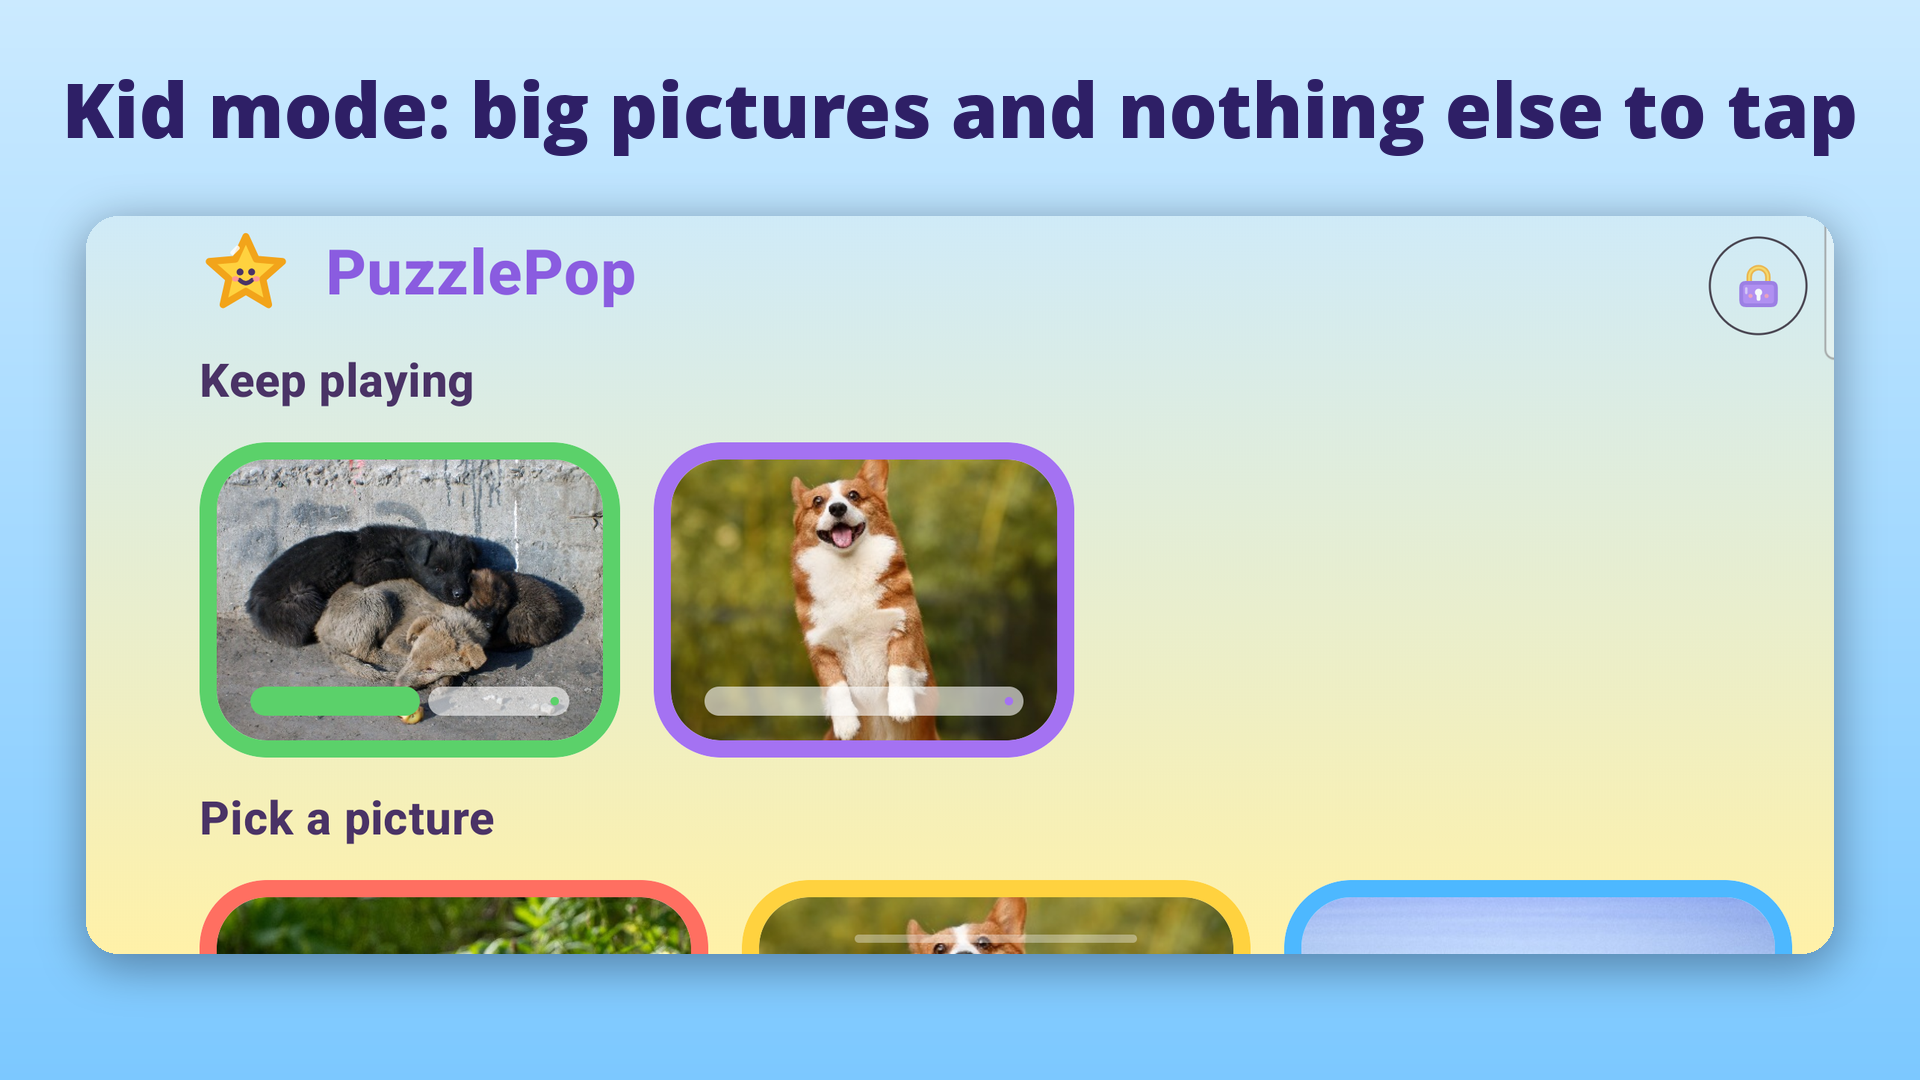
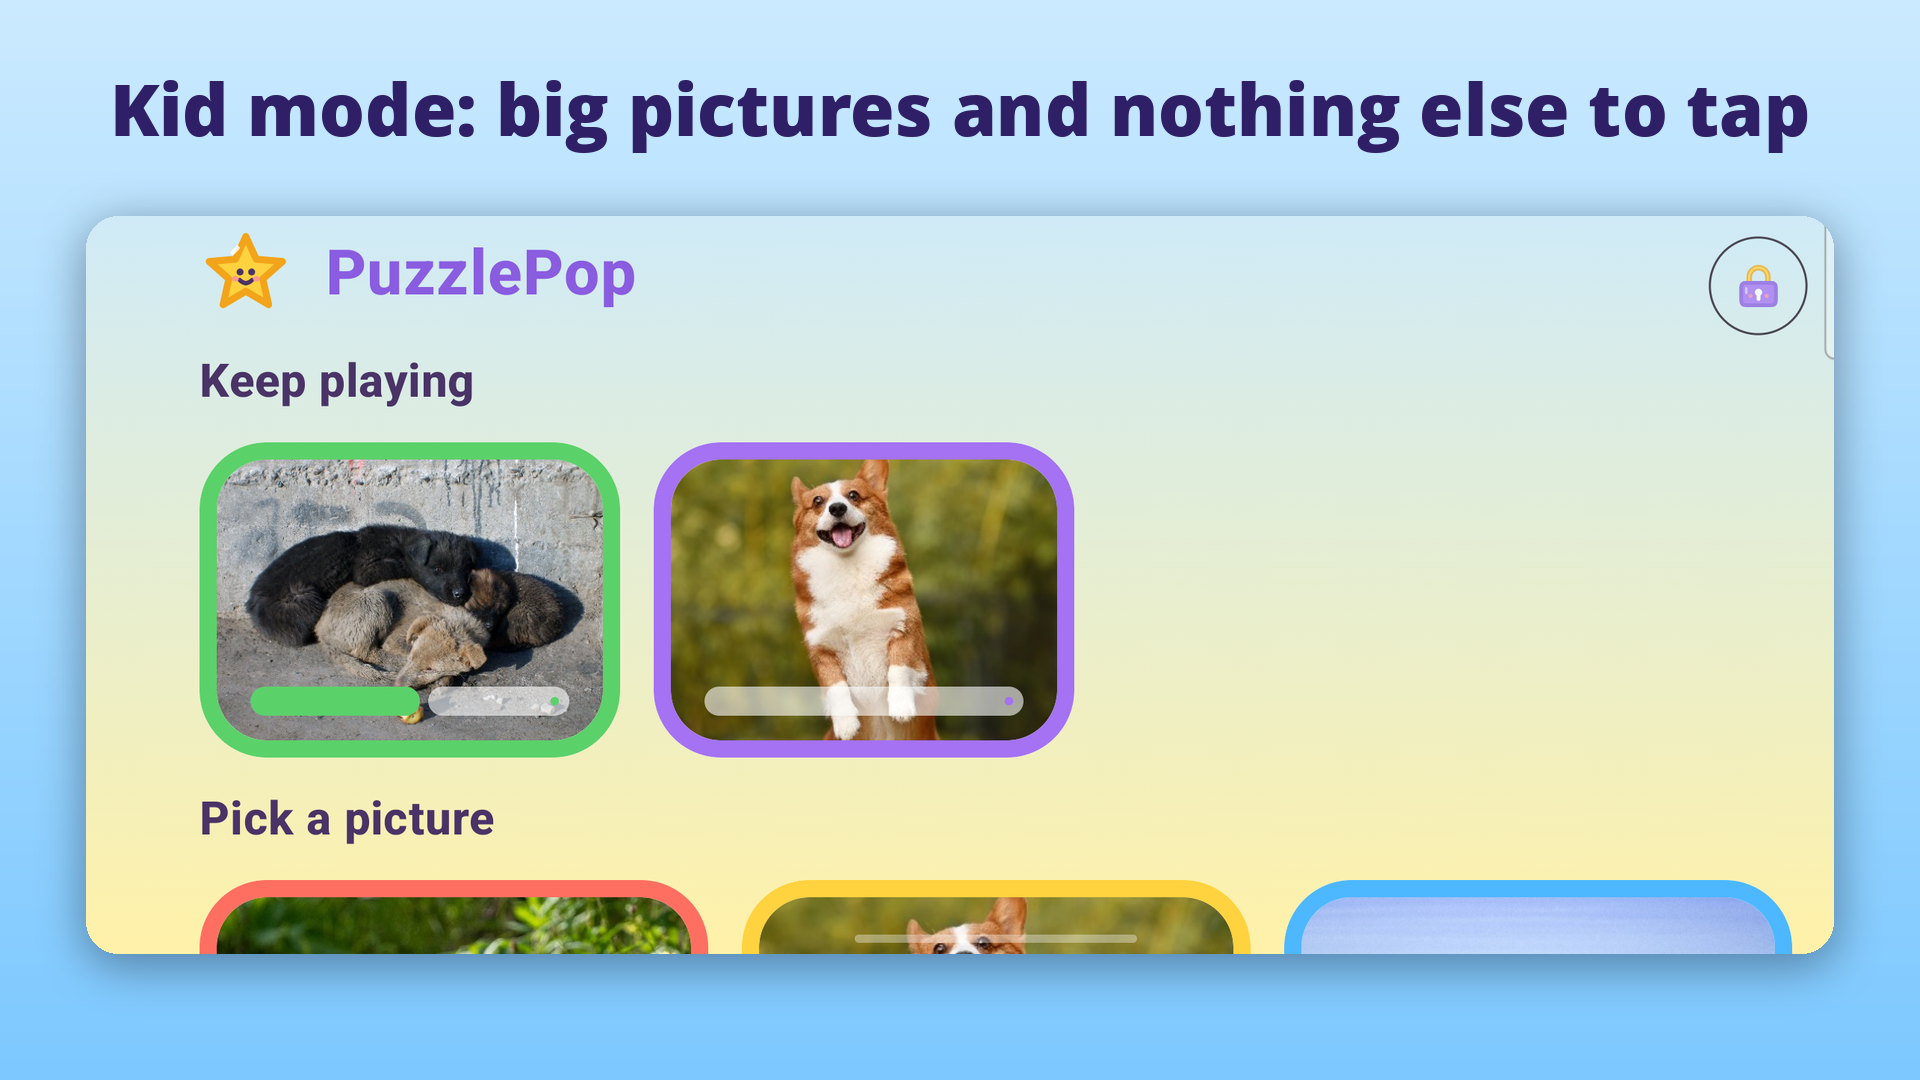
Tablet screenshots for the Play listing; fix the debug solve step
- play-store/tablet-1..6.png, taken on a Tab S7+.
- tools/store_art.py cuts off Samsung's taskbar, inpaints the S Pen button and
  edge-panel handle, and shrinks captions that don't fit.
- Debug long-press on the piece counter now goes to "all but one" once the top
  half is done; before, a 5-row puzzle repeated the top half forever.

Changed region(s): [[0.0312, 0.0611, 0.9688, 0.1528]]

diff --git a/app/src/main/kotlin/com/family/puzzlepop/play/PlayViewModel.kt b/app/src/main/kotlin/com/family/puzzlepop/play/PlayViewModel.kt
@@ -808,7 +808,15 @@ class PlayViewModel(
     /** Debug builds only: the first use solves the top half, the next all but one (see the play toolbar). */
     fun debugSolveStep() {
         val g = gameRef ?: return
-        if (g.placedCount < g.layout.pieces.size / 2) debugSolveTopHalf() else debugSolveAllButOne()
+        val top = topHalfPieces()
+        if (top.all { g.isLocked(it) }) debugSolveAllButOne() else debugSolveTopHalf()
+    }
+
+    /** The pieces whose home is above the picture's middle row. */
+    private fun topHalfPieces(): List<Int> {
+        val pieces = gameRef?.layout?.pieces ?: return emptyList()
+        val middle = pieces.map { it.bounds.top }.sorted().let { it[it.size / 2] }
+        return pieces.indices.filter { pieces[it].bounds.top < middle }
     }
 
     /** Debug builds only: locks every piece except one group, so the last drop can be tested by hand. */
@@ -826,10 +834,8 @@ class PlayViewModel(
     /** Debug builds only: locks the top half of the picture, so a puzzle looks well under way (store screenshots). */
     fun debugSolveTopHalf() {
         if (!BuildConfig.DEBUG) return
-        val g = gameRef ?: return
-        val pieces = g.layout.pieces
-        val middle = pieces.map { it.bounds.top }.sorted().let { it[it.size / 2] }
-        debugLock { id -> pieces[id].bounds.top < middle }
+        val top = topHalfPieces().toSet()
+        debugLock { id -> id in top }
     }
 
     /** Moves each unlocked piece that [which] picks to its home and drops it there. */

diff --git a/tools/store_art.py b/tools/store_art.py
@@ -36,8 +36,8 @@ CAPTIONS = {
         ("tablet_sheet.png", "10 to 1000 pieces, eight piece shapes"),
         ("tablet_library.png", "Pick up right where you left off"),
         ("tablet_finish.png", "A big celebration for every finished puzzle"),
-        ("tablet_kid_home.png", "Kid mode with time limits and a grown-up lock"),
-        ("tablet_settings.png", "No ads, no accounts, nothing leaves the device"),
+        ("tablet_kid_home.png", "Kid mode: big pictures and nothing else to tap"),
+        ("tablet_settings.png", "Play-time limits, behind a grown-up PIN"),
     ],
 }
 CANVAS = {"phone": (1920, 1080), "tablet": (2560, 1600)}
@@ -75,15 +75,44 @@ def paste_with_shadow(canvas, shot, xy, radius):
 
 
 def status_bar_height(img):
-    """The system status bar takes about 4% of a landscape screenshot's height; it is cut off."""
-    return round(img.height * 0.085) if img.height < img.width * 0.5 else round(img.height * 0.045)
+    """The system status bar at the top of a landscape screenshot; it is cut off."""
+    return round(img.height * 0.085) if is_phone(img) else round(img.height * 0.045)
+
+
+def is_phone(img):
+    return img.height < img.width * 0.5
+
+
+def hide_samsung_overlays(img):
+    """Inpaints the floating S Pen button (left edge) and the edge-panel handle (right edge) that Samsung
+    tablets draw over every app. Positions are for a 2800x1752 Tab S7+/S8+ screenshot, scaled to others.
+    Needs OpenCV (python3-opencv); without it the overlays are left as they are."""
+    try:
+        import cv2
+        import numpy as np
+    except ImportError:
+        return img
+    w, h = img.size
+    sx, sy = w / 2800, h / 1752
+    mask = np.zeros((h, w), np.uint8)
+    cv2.circle(mask, (round(30 * sx), round(355 * sy)), round(46 * sx), 255, -1)
+    cv2.rectangle(mask, (round(2780 * sx), round(236 * sy)), (w - 1, round(422 * sy)), 255, -1)
+    fixed = cv2.inpaint(np.array(img)[:, :, ::-1], mask, 7, cv2.INPAINT_TELEA)
+    return Image.fromarray(fixed[:, :, ::-1])
+
+
+def bottom_cut(img):
+    """Samsung tablets show a taskbar of app icons along the bottom; that strip is cut off too."""
+    return 0 if is_phone(img) else round(img.height * 0.07)
 
 
 def frame(raw_path, caption, size):
     w, h = size
     canvas = sky(size).convert("RGBA")
     shot = Image.open(raw_path).convert("RGB")
-    shot = shot.crop((0, status_bar_height(shot), shot.width, shot.height))
+    if not is_phone(shot):
+        shot = hide_samsung_overlays(shot)
+    shot = shot.crop((0, status_bar_height(shot), shot.width, shot.height - bottom_cut(shot)))
     caption_h = round(h * 0.2)
     margin = round(w * 0.045)
     max_w, max_h = w - 2 * margin, h - caption_h - margin
@@ -91,7 +120,11 @@ def frame(raw_path, caption, size):
     shot = shot.resize((round(shot.width * scale), round(shot.height * scale)), Image.LANCZOS)
     paste_with_shadow(canvas, shot, ((w - shot.width) // 2, caption_h), round(h * 0.03))
     draw = ImageDraw.Draw(canvas)
-    font = ImageFont.truetype(FONT_BOLD, round(h * 0.07))
+    size_px = round(h * 0.07)
+    font = ImageFont.truetype(FONT_BOLD, size_px)
+    while draw.textlength(caption, font=font) > w * 0.92:  # long captions shrink to fit
+        size_px -= 4
+        font = ImageFont.truetype(FONT_BOLD, size_px)
     tw = draw.textlength(caption, font=font)
     draw.text(((w - tw) / 2, caption_h * 0.5), caption, font=font, fill=INK, anchor="lm")
     return canvas.convert("RGB")

diff --git a/play-store/listing.md b/play-store/listing.md
@@ -118,3 +118,7 @@ this was written with machine help; have a native speaker check it before you pu
    Check each one for notifications before using it.
 4. Render the icon: `magick -background none -density 900 <(sed 's/viewBox="0 0 108 108"/viewBox="17 17 74 74"/' tools/launcher-icon/preview.svg) -resize 512x512 -depth 8 icon-512.png`
 5. Run `python3 -I tools/store_art.py raw play-store` to frame the screenshots and build the feature graphic.
+   For tablet shots it also cuts off Samsung's taskbar and inpaints the floating S Pen button and edge-panel
+   handle (needs `python3-opencv`).
+
+Upload `phone-*.png` as phone screenshots and `tablet-*.png` as both 7-inch and 10-inch tablet screenshots.
